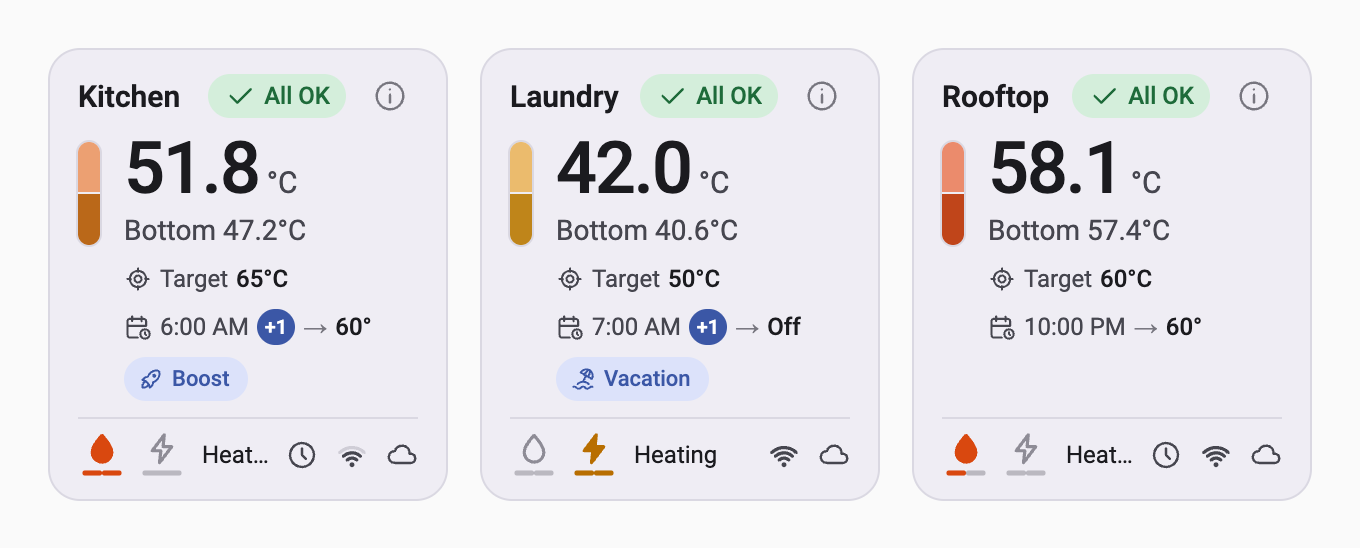
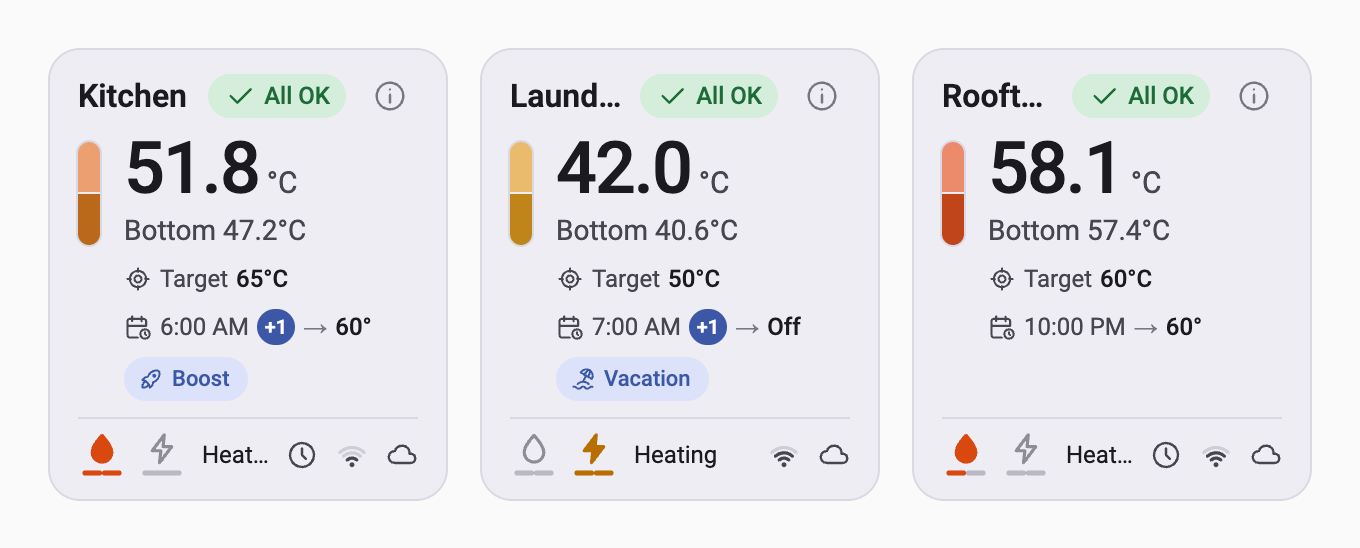
Stack cards by a fixed sample, relight Wi-Fi arcs, 16 px name

diff --git a/custom_components/ezgeyser/www/ezgeyser-card.js b/custom_components/ezgeyser/www/ezgeyser-card.js
@@ -33,9 +33,10 @@ function icon(name) {
   return `<svg class="icon" viewBox="0 0 24 24" aria-hidden="true" fill="none" stroke="currentColor" stroke-width="1.8" stroke-linecap="round" stroke-linejoin="round"><path d="${PATHS[name]}"/></svg>`;
 }
 // The Wi-Fi level (the integration's enum states), the word the footer shows, and how many arcs are lit, as in the app.
-const WIFI = {excellent:['Excellent',3], good:['Good',3], fair:['Fair',2], weak:['Weak',1]};
+const WIFI = {excellent:['Excellent',3], good:['Good',2], fair:['Fair',1], weak:['Weak',0]};
 const WIFI_ARCS = ['M8.82 15.32A4.5 4.5 0 0 1 15.18 15.32','M6.34 12.84A8 8 0 0 1 17.66 12.84','M3.87 10.37A11.5 11.5 0 0 1 20.13 10.37'];
-// The dot and every arc are always drawn: the lit ones in the item's colour, the rest in the inactive-arc token.
+// The dot and every arc are always drawn: the lit ones in the item's colour, the rest in the inactive-arc token. Weak
+// lights the dot alone, in the warning colour, so it still reads as Wi-Fi.
 function wifiIcon(level) {
   const lit = WIFI[level]?.[1] ?? 0;
   return `<svg class="icon wifi-icon" viewBox="0 0 24 24" aria-hidden="true" fill="none" stroke-width="2.2" stroke-linecap="round"><circle cx="12" cy="18.5" r="1.6" fill="currentColor"/>${WIFI_ARCS.map((d,i) => `<path d="${d}" stroke="${i < lit ? 'currentColor' : 'var(--wifi-off)'}"/>`).join('')}</svg>`;
@@ -67,15 +68,14 @@ function linkItems(link) {
     + (link.clockOff ? item('clock','Clock off','device clock',icon('clockAlert'),true) : '');
 }
 // The adaptive steps, from natural widths measured with every text at full length (see `_fitLayout`). Text never
-// shrinks or wraps: the mode chips lose their words if the middle row does not fit, and the row stacks only if it still
-// does not; the footer drops the Wi-Fi word, then the timer's text, then truncates the state text, stopping at the first
-// step that fits. Below STACK_BELOW the row always stacks, whatever the content, so cards of the same width keep the same
-// layout and height; above it the row stacks only if even icon-only chips do not fit (extreme values only).
-const ROW_GAP = 10, CHIP = 22, CHIP_GAP = 6, STACK_BELOW = 240;
+// shrinks or wraps. The row stacks by the Android app's rule, whatever the card shows: iff the fixed worst case of
+// SAMPLE does not fit side by side, so cards of the same width always share a layout and height. The mode chips lose
+// their words if the card's own row does not fit; the footer drops the Wi-Fi word, then the timer's text, then truncates
+// the state text, stopping at the first step that fits.
+const ROW_GAP = 10;
 function fitLayout(m) {
-  const fits = right => m.left + ROW_GAP + right <= m.width;
-  const stacked = m.width < STACK_BELOW || !fits(m.rightIcons);
-  const chipsIcons = stacked ? m.right > m.width : !fits(m.right);
+  const stacked = m.sampleLeft + ROW_GAP + m.sampleRight > m.width;
+  const chipsIcons = (stacked ? 0 : m.left + ROW_GAP) + m.right > m.width;
   let footer = m.footer, footerStep = 0;
   for (const saving of [m.wifiWord, m.timerText]) {
     if (footer <= m.width) break;
@@ -84,6 +84,10 @@ function fitLayout(m) {
   if (footer > m.width) footerStep = 3;
   return {chipsIcons, stacked, footerStep};
 }
+// The worst case the stacking rule measures, with the card's own classes, in a hidden element: the widest reading and
+// second line on the left; the target, an event a week ahead and two icon-only mode chips on the right.
+const SAMPLE = `<div class="left"><div class="tank"></div><div class="readings"><div class="reading"><span class="number">88.8</span><span class="unit">°C</span></div><div class="secondary">Bottom 88.8°C</div></div></div>
+  <div class="right"><span class="line">${icon('target')}<span>Target</span><span class="value">72.5°C</span></span><span class="line">${icon('calendarClock')}<span>12:30 PM</span><span class="day-badge">+7</span><span class="quiet">→</span><span class="value">72.5°</span></span><div class="modes"><span class="chip">${icon('rocket')}</span><span class="chip">${icon('beach')}</span></div></div>`;
 function fitClasses(fit) {
   return [fit.chipsIcons && 'chips-icons', fit.stacked && 'stacked', fit.footerStep >= 1 && 'no-wifi-word',
     fit.footerStep >= 2 && 'no-timer-text', fit.footerStep >= 3 && 'truncate-state'].filter(Boolean).join(' ');
@@ -197,14 +201,15 @@ function tankColors(top, bottom) {
 const STYLE = `
 :host{display:block;--surface:#EFEDF4;--text:#1B1B1F;--secondary:#46464F;--tertiary:#77767F;--line:#DAD8E2;--off:#8E8C96;--ok:#1E6B3A;--ok-bg:#D4EEDB;--warn:#8A5100;--warn-bg:#FFDDB8;--primary:#3B57A6;--on-primary:#FFFFFF;--primary-bg:#DCE2FA;--dialog:#FBF8FF;--gas:#D9480F;--electric:#B86E00;--wifi-off:#CFCDD6;--line-h:18px;--chip-h:22px;--row-h:calc(2 * var(--line-h) + var(--chip-h) + 2 * 6px)}
 :host([dark]){--surface:#202024;--text:#E5E1E6;--secondary:#C6C5CF;--tertiary:#908F99;--line:#34343A;--off:#77767F;--ok:#9AD6A9;--ok-bg:#1E3826;--warn:#FFB95E;--warn-bg:#4A2B00;--primary:#B4C5FF;--on-primary:#13285E;--primary-bg:#2B3A66;--dialog:#2A2A2F;--gas:#FF8F57;--electric:#F2B33D;--wifi-off:#46454C}
-*{box-sizing:border-box}ha-card{display:block;background:var(--ha-card-background,var(--surface));color:var(--text);border:1px solid var(--ha-card-border-color,var(--line));border-radius:var(--ha-card-border-radius,16px);box-shadow:var(--ha-card-box-shadow,none);font-family:var(--paper-font-body1_-_font-family,Roboto,Arial,sans-serif);overflow:hidden}
-.card{padding:12px 14px 10px;outline:none}.entity-button{font:inherit;color:inherit;background:none;border:0;padding:0;text-align:inherit;cursor:pointer}.entity-button:focus-visible{outline:2px solid var(--primary);outline-offset:2px;border-radius:3px}.card:focus-visible{outline:3px solid var(--primary);outline-offset:-3px;border-radius:16px}.header{display:flex;align-items:center;gap:8px;min-width:0;height:22px}.name{margin:0;flex:1;min-width:0;font-size:15px;font-weight:600;overflow:hidden;text-overflow:ellipsis;white-space:nowrap}.badge{display:inline-flex;align-items:center;gap:4px;padding:3px 8px;border-radius:20px;max-width:60%;font-size:12px;font-weight:500;color:var(--ok);background:var(--ok-bg)}.badge span{overflow:hidden;text-overflow:ellipsis;white-space:nowrap}.badge.warning{color:var(--warn);background:var(--warn-bg)}.icon{width:16px;height:16px;flex:none}.details-button{border:0;background:none;color:var(--tertiary);padding:0;min-width:28px;min-height:28px;display:grid;place-items:center;border-radius:50%;cursor:pointer}.details-button:focus-visible{outline:2px solid var(--primary)}
+*{box-sizing:border-box}ha-card{display:block;background:var(--ha-card-background,var(--surface));color:var(--text);border:1px solid var(--ha-card-border-color,var(--line));border-radius:var(--ha-card-border-radius,16px);box-shadow:var(--ha-card-box-shadow,none);overflow:hidden}ha-card,.sample{font-family:var(--paper-font-body1_-_font-family,Roboto,Arial,sans-serif)}
+.card{padding:12px 14px 10px;outline:none}.entity-button{font:inherit;color:inherit;background:none;border:0;padding:0;text-align:inherit;cursor:pointer}.entity-button:focus-visible{outline:2px solid var(--primary);outline-offset:2px;border-radius:3px}.card:focus-visible{outline:3px solid var(--primary);outline-offset:-3px;border-radius:16px}.header{display:flex;align-items:center;gap:8px;min-width:0;height:22px}.name{margin:0;flex:1;min-width:0;font-size:16px;font-weight:600;overflow:hidden;text-overflow:ellipsis;white-space:nowrap}.badge{display:inline-flex;align-items:center;gap:4px;padding:3px 8px;border-radius:20px;max-width:60%;font-size:12px;font-weight:500;color:var(--ok);background:var(--ok-bg)}.badge span{overflow:hidden;text-overflow:ellipsis;white-space:nowrap}.badge.warning{color:var(--warn);background:var(--warn-bg)}.icon{width:16px;height:16px;flex:none}.details-button{border:0;background:none;color:var(--tertiary);padding:0;min-width:28px;min-height:28px;display:grid;place-items:center;border-radius:50%;cursor:pointer}.details-button:focus-visible{outline:2px solid var(--primary)}
 .temperatures{display:grid;grid-template-columns:minmax(0,1fr) auto;column-gap:10px;row-gap:8px;align-items:center;min-height:var(--row-h);margin:12px 0 8px}.left{display:flex;align-items:center;align-self:stretch;gap:12px;min-width:0}.tank{width:11px;flex:none;align-self:stretch;border-radius:6px;overflow:hidden;display:flex;flex-direction:column;box-shadow:0 0 0 1px var(--line)}.half{height:50%;flex:1}.half+.half{border-top:1px solid var(--surface)}.half.fault{background:repeating-linear-gradient(135deg,var(--off) 0 3px,var(--surface) 3px 5px)!important}.readings{min-width:0}.reading{display:flex;align-items:baseline;gap:4px;white-space:nowrap;line-height:.75}.number{font-size:36px;font-weight:500;letter-spacing:-1px;font-variant-numeric:tabular-nums}.unit{font-size:15px;color:var(--secondary)}.secondary{display:block;font-size:14px;line-height:.95;white-space:nowrap;color:var(--secondary);margin-top:11px}.fault-text{color:var(--warn)}
 .right{display:flex;flex-direction:column;align-items:flex-end;justify-content:center;gap:6px;min-width:0;font-size:12px;color:var(--secondary);text-align:right}.line{display:inline-flex;align-items:center;justify-content:flex-end;gap:4px;max-width:100%;min-height:var(--line-h);white-space:nowrap;overflow:hidden}.line .icon{width:14px;height:14px}.value{font-weight:500;color:var(--text)}.quiet{color:var(--tertiary)}.day-badge{display:inline-grid;place-items:center;flex:none;height:18px;min-width:18px;padding:0 4px;border-radius:9px;background:var(--primary);color:var(--on-primary);font-size:10px;font-weight:600;line-height:1}.modes{display:flex;gap:6px;flex:none}.chip{display:inline-flex;align-items:center;justify-content:center;gap:4px;height:var(--chip-h);min-width:var(--chip-h);border-radius:11px;padding:0 9px 0 7px;font-size:11px;font-weight:500;white-space:nowrap;background:var(--primary-bg);color:var(--primary)}.chip .icon{width:13px;height:13px}.chips-icons .chip{width:var(--chip-h);padding:0}.chips-icons .chip span{display:none}
 .footer{border-top:1px solid var(--line);padding-top:6px;display:flex;align-items:center;gap:8px;min-height:31px;font-size:12px;color:var(--secondary);white-space:nowrap}.start{display:flex;align-items:center;gap:8px;flex:1;min-width:0}.sources{display:flex;gap:6px;flex:none}.heat-control{position:relative;width:24px;height:24px;flex:none}.heat-buttons{position:absolute;inset:0;display:flex}.heat-button{flex:1;min-width:0;height:100%}.heat{width:24px;height:24px;color:var(--off);overflow:visible}.glyph{fill:none;stroke:currentColor;stroke-width:2.3;stroke-linejoin:round}.on .glyph{fill:currentColor}.gas.on{color:var(--gas)}.electric.on{color:var(--electric)}.segment{fill:none;stroke:var(--off);opacity:.55;stroke-width:2.6;stroke-linecap:round}.gas .lit{stroke:var(--gas);opacity:1}.electric .lit{stroke:var(--electric);opacity:1}.activity{flex:none;overflow:hidden;text-overflow:ellipsis}.activity.heating{color:var(--text)}.timer,.wifi,.cloud,.clock{display:inline-flex;align-items:center;gap:4px;flex:none}.wifi .icon{width:18px;height:18px}.status{display:flex;align-items:center;gap:8px;flex:none;margin-left:auto}.warn{color:var(--warn)}.stale .number,.stale .unit,.stale .secondary{color:var(--tertiary)}.stale .tank{opacity:.45}.stale .right{color:var(--tertiary)}
 .no-wifi-word .wifi span,.no-timer-text .timer span{display:none}.truncate-state .activity{flex:0 1 auto;min-width:0}
 .stacked .temperatures{grid-template-columns:minmax(0,1fr)}.stacked .left{align-self:auto}.stacked .right{align-items:flex-start;justify-content:flex-start;min-height:var(--row-h);text-align:left;padding-left:23px}.stacked .line{justify-content:flex-start}
 .measure .temperatures{grid-template-columns:max-content max-content;width:max-content}.measure .footer{width:max-content}.measure .start,.measure .activity{flex:none}
+.sample{position:absolute;height:0;overflow:hidden;visibility:hidden;pointer-events:none;display:flex;flex-direction:column}.sample,.sample>*{width:max-content}
 dialog.details{border:0;padding:0;margin:auto;width:min(360px,calc(100vw - 32px));max-height:calc(100vh - 32px);border-radius:24px;background:var(--dialog);color:var(--text);font-family:var(--paper-font-body1_-_font-family,Roboto,Arial,sans-serif);font-size:14px;box-shadow:0 8px 32px rgba(0,0,0,.3)}dialog.details::backdrop{background:rgba(0,0,0,.45)}.sheet{padding:20px 20px 16px;outline:none}.sheet header{display:flex;align-items:center;gap:8px}.sheet h2{flex:1;margin:0;font-size:18px;font-weight:500}.icon-button{display:grid;place-items:center;width:40px;height:40px;margin:-8px -8px -8px 0;border:0;border-radius:50%;background:none;color:var(--secondary);cursor:pointer}.icon-button .icon{width:20px;height:20px}.when{margin:4px 0 12px;color:var(--secondary)}.sheet dl{margin:0;border-top:1px solid var(--line)}.row{display:flex;justify-content:space-between;gap:16px;padding:10px 0;border-bottom:1px solid var(--line)}.row dt{color:var(--secondary)}.row dd{margin:0;font-weight:500;text-align:right}.sheet footer{display:flex;justify-content:space-between;gap:8px;margin-top:16px}.text-button,.filled-button{font:inherit;font-weight:500;min-height:40px;padding:0 16px;border-radius:20px;border:0;cursor:pointer}.text-button{background:none;color:var(--primary)}.filled-button{background:var(--primary);color:var(--on-primary)}.sheet button:focus-visible{outline:2px solid var(--primary);outline-offset:2px}
 @media(max-width:600px){dialog.details{margin:auto 0 0;width:100vw;max-width:100vw;border-radius:24px 24px 0 0}.sheet{padding-bottom:max(16px,env(safe-area-inset-bottom))}}
 `;
@@ -213,8 +218,11 @@ class EzGeyserCard extends HTMLElement {
     super(); this.attachShadow({mode:'open'}); this._last = null; this._fit = {chipsIcons:false,stacked:false,footerStep:0};
     // The details window is a native <dialog>, outside ha-card so the per-second re-render leaves it alone. HA's own
     // dialog elements are not a public API for cards.
-    this.shadowRoot.innerHTML = `<style>${STYLE}</style><ha-card></ha-card><dialog class="details" aria-labelledby="details-title"></dialog>`;
+    this.shadowRoot.innerHTML = `<style>${STYLE}</style><ha-card></ha-card><div class="sample chips-icons" aria-hidden="true">${SAMPLE}</div><dialog class="details" aria-labelledby="details-title"></dialog>`;
     this._card = this.shadowRoot.querySelector('ha-card');
+    this._sample = this.shadowRoot.querySelector('.sample');
+    // Fonts that load later, such as a theme's, change every width.
+    this._remeasure = () => { this._sampleSize = null; this._fitKey = null; this._fitLayout(); };
     this._dialog = this.shadowRoot.querySelector('dialog');
     this._card.addEventListener('click', e => {
       if (e.target.closest('[data-action="schedule"]')) return this._openDetails();
@@ -287,9 +295,13 @@ class EzGeyserCard extends HTMLElement {
   connectedCallback() {
     this._loadRegistry(); this._subscribeRegistry();
     // Widths measured with a fallback font are wrong once the web font arrives.
-    if (typeof document !== 'undefined') document.fonts?.ready.then(() => { this._fitKey = null; this._fitLayout(); });
+    if (typeof document !== 'undefined') {
+      document.fonts?.ready.then(this._remeasure);
+      document.fonts?.addEventListener('loadingdone',this._remeasure);
+    }
   }
   disconnectedCallback() {
+    if (typeof document !== 'undefined') document.fonts?.removeEventListener('loadingdone',this._remeasure);
     this._registryEpoch = (this._registryEpoch || 0) + 1;
     this._registryUnsubscribe?.();
     this._registryUnsubscribe = undefined;
@@ -351,7 +363,8 @@ class EzGeyserCard extends HTMLElement {
   }
   // Measures the natural widths once per new width or content, with every text at full length, and applies the
   // adaptive classes `fitLayout` picks. Classes only: the content is not rendered again. The observed card width keys
-  // the cache, so an unchanged render costs no layout.
+  // the cache, so an unchanged render costs no layout. The sample is measured once, then again after a font or theme
+  // change.
   _fitLayout() {
     const card = this._card.querySelector('.card');
     if (!card?.getBoundingClientRect) return;
@@ -364,10 +377,12 @@ class EzGeyserCard extends HTMLElement {
     card.className = classes('measure');
     const w = element => element?.getBoundingClientRect().width || 0;
     const one = selector => w(card.querySelector(selector));
-    const chips = card.querySelectorAll('.chip').length;
+    if (!this._sampleSize) {
+      const size = {sampleLeft:w(this._sample.querySelector('.left')), sampleRight:w(this._sample.querySelector('.right'))};
+      if (size.sampleLeft) this._sampleSize = size;
+    }
     this._fit = fitLayout({
-      width, left:one('.left'), right:one('.right'),
-      rightIcons:Math.max(...[...card.querySelectorAll('.right > .line')].map(w), chips ? chips * CHIP + (chips - 1) * CHIP_GAP : 0),
+      width, ...this._sampleSize, left:one('.left'), right:one('.right'),
       footer:one('.footer'), wifiWord:one('.wifi') - one('.wifi .icon'), timerText:one('.timer') - one('.timer .icon'),
     });
     card.className = classes(fitClasses(this._fit));
@@ -382,6 +397,10 @@ class EzGeyserCard extends HTMLElement {
     const hass = this._hass, config = this._config;
     const dark = config.theme === 'dark' || (config.theme !== 'light' && Boolean(hass.themes?.darkMode));
     this.toggleAttribute('dark',dark);
+    // A theme can bring its own font; it applies its styles on its own schedule, so measure again on the next frame.
+    const theme = JSON.stringify([hass.themes?.theme,hass.selectedTheme]);
+    if (this._theme !== undefined && theme !== this._theme && typeof requestAnimationFrame === 'function') requestAnimationFrame(this._remeasure);
+    this._theme = theme;
     const states = Object.fromEntries(Object.entries(this._ids).map(([key,id]) => [key,hass.states[id]]));
     const signature = JSON.stringify([dark,config.name,hass.locale,hass.config?.time_zone,hass.config?.unit_system,this._registryError,this._registry === undefined,this._deviceId,hass.devices?.[this._deviceId],Object.values(states)]);
     if (signature === this._signature) return;

diff --git a/README.md b/README.md
@@ -125,7 +125,8 @@ The real card with **simulated readings**; the geysers and values are made up.
 | ![Garage unreachable, with muted last known values](assets/screenshots/unreachable.png) | ![Next scheduled event details: today 9:30 PM, target 55 °C, Gas, switch-over on, weekdays](assets/screenshots/details.png) |
 | **Unreachable** | **Next event details** |
 
-Cards narrower than about 270 px always stack their readings, so cards side by side stay the same height:
+Cards narrower than about 295 px stack their readings, as in the Android app, so cards side by side stay the same
+height:
 
 ![Three narrow cards: Kitchen heating on gas with Boost, Laundry on both elements in vacation mode, Rooftop on one burner side](assets/screenshots/narrow.png)
 

diff --git a/CHANGELOG.md b/CHANGELOG.md
@@ -1,5 +1,14 @@
 # Changelog
 
+## 0.6.1 (2026-11-11)
+
+- Card: the Wi-Fi icon lights 3 arcs for Excellent, 2 for Good, 1 for Fair and only the dot, in amber, for Weak; all
+  three arcs are always drawn.
+- Card: whether the readings stack no longer depends on what a card shows. Every card stacks below one width (about
+  295 px with the default font), measured from a fixed widest-case sample with the card's own styles, the same rule as
+  the Android app.
+- Card: the name is 16 px.
+
 ## 0.6.0 (2026-11-11)
 
 - Add five read-only entities from fields `/quickStatus` already sends, with no new requests: **Network Wi-Fi
